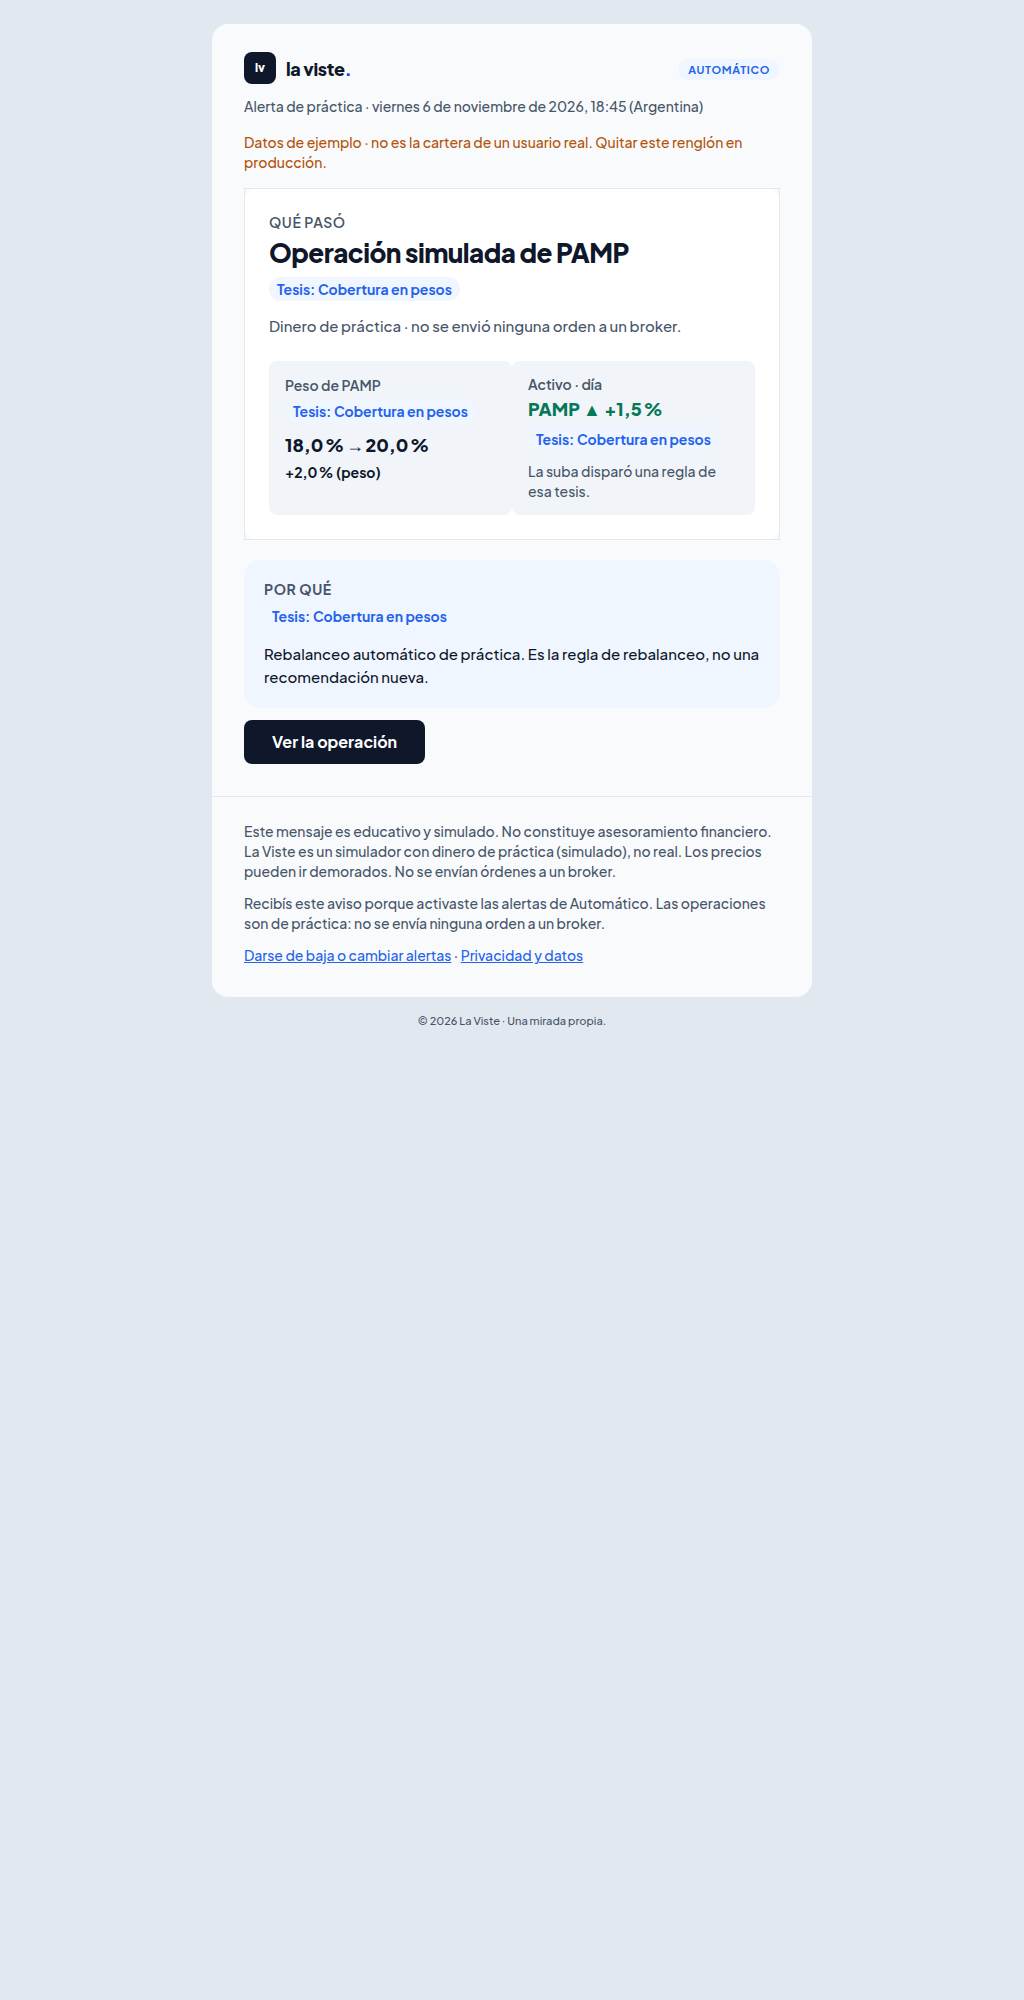
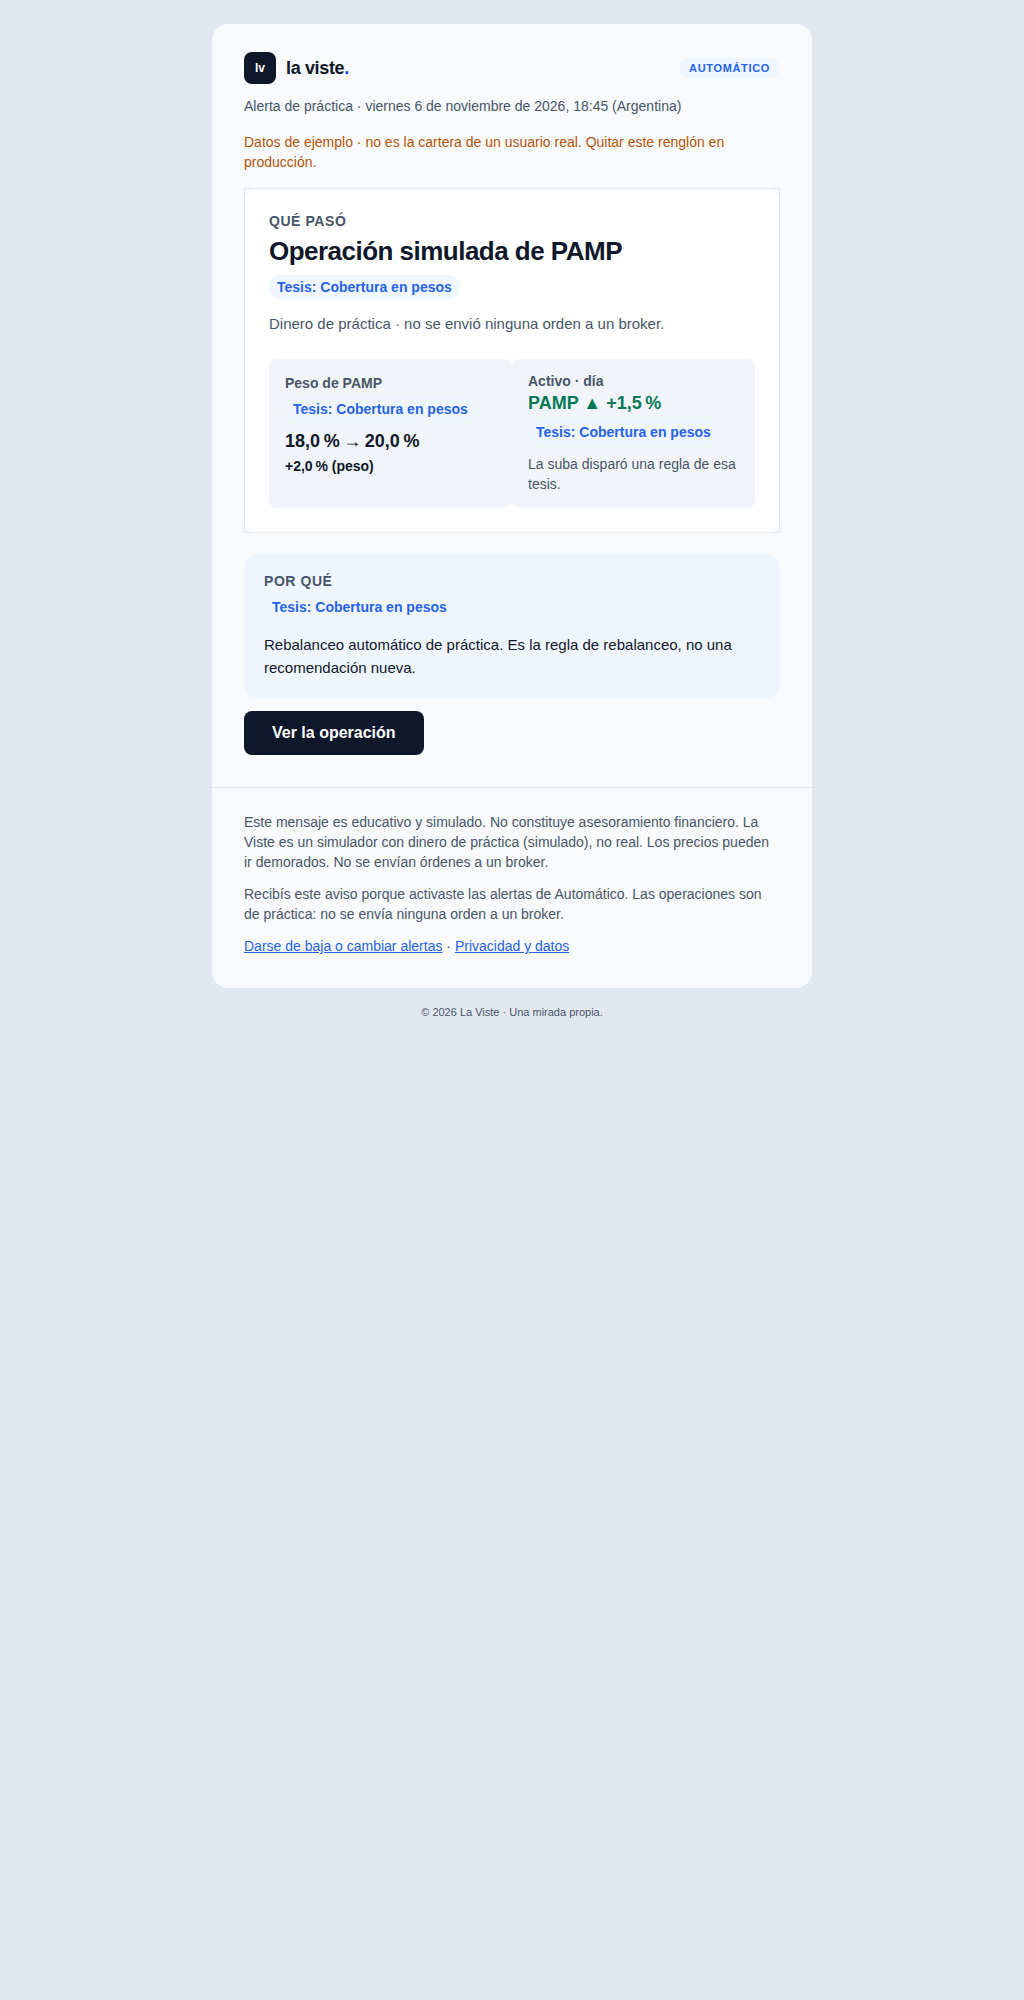
docs: document asset day-change blocker, update review artifacts
- Add docs/ASSET-HISTORY-BLOCKER.md documenting:
  * Existing providers (data912, Yahoo) DO expose day-change fields
  * Current adapters discard pct_change, chartPreviousClose fields
  * quote_cache schema lacks storage columns (migration pending approval)
  * Proposed Option A: capture provider fields with validation
  * Proposed Option B: holdings snapshot in daily marks
  * Implementation checklist: units, zero preservation, stale/session handling

- Regenerate email review artifacts from 7aba3ad (unified baseline):
  * Update MANIFEST.json sourceCommit to 7aba3ad1874577e97086dc4d7a32249834caa9dd
  * Regenerate 2 missing PNG screenshots (trade-unknown-side-desktop, zero-digest-mobile)
  * All 6 fixtures × 4 files (HTML, TXT, desktop PNG, mobile PNG) = 24 files
  * Verified SHA256 hashes in manifest match actual files

- Update scripts/generate-email-fixtures.mjs SOURCE_COMMIT to 7aba3ad

No schema changes, no migration implementation yet (awaiting approval).

Changed region(s): [[0.2188, 0.279, 0.75, 0.527], [0.25, 0.031, 0.7188, 0.248], [0.375, 0.031, 0.75, 0.093]]

diff --git a/docs/ASSET-HISTORY-BLOCKER.md b/docs/ASSET-HISTORY-BLOCKER.md
@@ -1,0 +1,320 @@
+# Asset Day-Change History Blocker
+
+**Date:** 2026-11-07  
+**Status:** Documented blocker for asset-level threshold alerts (Spec §2, §5.1, §6 line 180)
+
+## Approved Requirement
+
+From `SPEC-EMAIL-LAVISTE-CLARITY-2026-11-06_280f.md`:
+
+- **§2 Principios**: "Umbrales: Activo ±5 % · cartera ±3 %" (defaults, respect user prefs)
+- **§5.1**: "Alertas disparadas — ítems que cruzaron ±5 % (activo) o ±3 % (cartera)"
+- **§6 line 180**: `theses[].movers[]` {symbol, `dayPct`, thesisNames[]} — **Gap P0**
+- **§6 line 189**: "también enviar si `|portfolio.dayPct| >= thresholdPortfolioPct`" — **Gap P1**
+- **§6 line 182**: `alertsFired[]` {symbol, `dayPct`, thesisNames[], threshold} — **Gap P0/P1**
+
+## Current System Limitations
+
+### 1. No Individual Asset Price History
+
+**Evidence:**
+
+```sql
+-- quote_cache: ONLY current price (PRIMARY KEY = ticker, single row)
+CREATE TABLE IF NOT EXISTS quote_cache(
+  ticker TEXT PRIMARY KEY, 
+  price REAL NOT NULL, 
+  as_of TEXT NOT NULL, 
+  provider TEXT NOT NULL, 
+  stale INTEGER NOT NULL DEFAULT 0
+);
+
+-- take_daily_marks: Aggregate take value, NOT per-asset prices
+CREATE TABLE IF NOT EXISTS take_daily_marks(
+  take_id TEXT NOT NULL REFERENCES takes(id),
+  user_id TEXT REFERENCES users(id),
+  day TEXT NOT NULL,
+  value REAL NOT NULL,  -- Total take value
+  invested REAL NOT NULL,
+  bench_id TEXT,
+  bench_price REAL,
+  eligible INTEGER NOT NULL,
+  PRIMARY KEY(take_id, day)
+);
+```
+
+**Quotes API** (`lib/quotes.mjs:191-195, 323`):
+- `getCached(ticker)` returns only current price
+- No `getHistoricalPrice()` or `getPreviousClose()` method
+- Adapters only fetch current `regularMarketPrice` (Yahoo) or live price (data912)
+
+### 2. Existing Providers DO Expose Day-Change Fields (Currently Discarded)
+
+**CORRECTED FINDING:** Provider adapters already receive day-change data but discard it.
+
+**Yahoo Finance adapter** (`lib/quotes.mjs:74-92`):
+```javascript
+const data = await fetchJson(`https://query2.finance.yahoo.com/v8/finance/chart/${sym}?interval=1d&range=1d`, fetcher);
+const meta = data?.chart?.result?.[0]?.meta;
+const price = meta?.regularMarketPrice;  // Captured
+// AVAILABLE BUT DISCARDED:
+// meta?.chartPreviousClose or meta?.previousClose
+// meta?.regularMarketChange (absolute)
+// meta?.regularMarketChangePercent (percentage units, not fraction)
+```
+
+**data912 adapter** (`lib/quotes.mjs:46-61`):
+```javascript
+const cedears = await fetchJson('https://data912.com/live/arg_cedears', fetcher);
+const row = cedears.find(r => r.symbol === benchmark.data912);
+// row.c = current price (captured)
+// AVAILABLE BUT DISCARDED:
+// row.pct_change (percentage units: 2.5 means +2.5%, not 0.025)
+```
+
+**Demo adapter**: Static prices only, no day-change data.
+
+**Conclusion:** No new service integration required. Existing provider responses contain day-change fields; adapters simply don't capture them.
+
+### 3. Take Holdings Are Current State Only
+
+Holdings in `take` object (`lib/engine.mjs:39`) store only current `price`:
+```javascript
+holding: {ticker, units, price, entryPrice, referencePrice}
+```
+
+Holdings are NOT persisted per daily mark; only aggregate value/invested captured.
+
+## Consequence
+
+**Cannot compute asset day returns** required for:
+1. `movers[].dayPct` in digest (show which assets moved and by how much)
+2. `alertsFired[]` when asset crosses ±5% threshold
+3. Asset-level threshold gate in `scheduleDailyDigest`
+
+Portfolio day return works (uses aggregate take values in `take_daily_marks`), but individual asset day % is unavailable.
+
+## Proposed Minimal Extension (Design Only)
+
+**NO NEW SERVICE INTEGRATION REQUIRED:** Existing providers expose day-change fields.
+
+### Option A: Capture Provider Day-Change Fields (Preferred)
+
+Extend `quote_cache` to capture day-change fields from providers:
+
+```sql
+ALTER TABLE quote_cache ADD COLUMN day_change_pct REAL;
+ALTER TABLE quote_cache ADD COLUMN prev_close REAL;
+ALTER TABLE quote_cache ADD COLUMN change_as_of TEXT;
+-- day_change_pct: fraction units (0.025 = +2.5%)
+-- prev_close: absolute price from previous session
+-- change_as_of: which session this change represents (verify same day)
+```
+
+**Capture in adapters**:
+
+```javascript
+// data912 adapter
+const row = cedears.find(r => r.symbol === sym);
+if (row?.c && Number.isFinite(row.pct_change)) {
+  // UNITS: row.pct_change is percentage (2.5 means +2.5%)
+  // Convert to fraction: 2.5 → 0.025
+  const dayChangePct = row.pct_change / 100;
+  
+  // Reject invalid: if pct_change <= -100%, data is wrong
+  if (dayChangePct > -1.0) {
+    quote.dayChangePct = dayChangePct;
+    quote.prevClose = row.c / (1 + dayChangePct);  // Compute from current
+  }
+}
+
+// Yahoo adapter
+const meta = data?.chart?.result?.[0]?.meta;
+if (meta?.regularMarketPrice && Number.isFinite(meta.regularMarketChangePercent)) {
+  // UNITS: regularMarketChangePercent is percentage (2.5 means +2.5%)
+  const dayChangePct = meta.regularMarketChangePercent / 100;
+  
+  // Reject invalid
+  if (dayChangePct > -1.0) {
+    quote.dayChangePct = dayChangePct;
+  }
+  // Use chartPreviousClose or previousClose if available
+  if (Number.isFinite(meta.chartPreviousClose)) {
+    quote.prevClose = meta.chartPreviousClose;
+  } else if (Number.isFinite(meta.previousClose)) {
+    quote.prevClose = meta.previousClose;
+  }
+}
+```
+
+**Validation Requirements (Critical)**:
+1. **Units normalization**: Provider percentages → fractions at adapter boundary
+2. **Preserve zero**: `dayChangePct === 0` is meaningful (flat day), do NOT drop with `if (q?.dayChangePct)`
+3. **Reject invalid data**: `dayChangePct <= -1.0` (≤-100%) is wrong, omit
+4. **Session verification**: Ensure `change_as_of` matches expected ART session (don't use Friday's change on Monday)
+5. **Stale handling**: If quote is stale, day-change may be from wrong session → omit
+6. **Scope by user**: Asset day % only for tickers in user's takes
+7. **All thesis names**: When reporting asset movement, include ALL theses containing that ticker
+
+**Usage in digest**:
+```javascript
+// Get current quote with day-change
+const q = quotes.getCached(ticker);
+
+// CORRECT: preserve meaningful zero
+if (q && Number.isFinite(q.dayChangePct)) {
+  const assetDayPct = q.dayChangePct;  // Already fraction
+  // Check threshold
+  if (Math.abs(assetDayPct) >= prefs.thresholdAssetPct / 100) {
+    // Asset crossed threshold
+  }
+}
+
+// INCORRECT: drops zero
+if (q?.dayChangePct) {  // WRONG: excludes 0
+  // ...
+}
+```
+
+**Pros:**
+- No new service integration (providers already expose this)
+- Smaller storage footprint than holdings JSON
+- Available immediately after refresh (no multi-day accumulation)
+- Can backfill if provider response includes previous close
+
+**Cons:**
+- Provider-dependent (may not have for all tickers, especially benchmarks)
+- Mixed sessions/timezones (Yahoo regular market vs BYMA close)
+- Stale handling complexity (day-change from wrong session must be rejected)
+- Cannot compute asset day % for arbitrary baseline (only yesterday)
+
+### Option B: Holdings Snapshot in Daily Marks
+
+Extend `take_daily_marks` to capture full holdings state:
+
+```sql
+ALTER TABLE take_daily_marks ADD COLUMN holdings_json TEXT;
+-- JSON array: [{ticker, units, price}] at mark time
+```
+
+**Capture during daily marks** (`lib/daily-marks.mjs:82-90`):
+```javascript
+scoped.upsertDailyMark({
+  takeId: take.id,
+  day,
+  value: val,
+  invested: take.invested,
+  holdingsJson: JSON.stringify(
+    take.holdings.map(h => ({ticker: h.ticker, units: h.units, price: h.price}))
+  ),
+  benchId: take.benchmarkId || null,
+  benchPrice: Number.isFinite(bench?.price) ? bench.price : null,
+  eligible: markEligible(take, val),
+});
+```
+
+**Compute asset day return**:
+```javascript
+// Get baseline and today holdings from marks
+const priorMark = loadMark(takeId, baselineDay);
+const todayMark = loadMark(takeId, today);
+const priorHoldings = JSON.parse(priorMark.holdings_json || '[]');
+const todayHoldings = JSON.parse(todayMark.holdings_json || '[]');
+
+// Asset day %: (todayPrice - priorPrice) / priorPrice
+const priorH = priorHoldings.find(h => h.ticker === ticker);
+const todayH = todayHoldings.find(h => h.ticker === ticker);
+if (priorH && todayH && priorH.price > 0) {
+  const assetDayPct = (todayH.price - priorH.price) / priorH.price;
+  // Preserve zero, reject invalid
+  if (assetDayPct > -1.0) {
+    // Valid day return
+  }
+}
+```
+
+**Pros:**
+- Respects unified baseline exactly (same ART day for all assets)
+- Captures actual prices at mark session (~17:30 ART)
+- No provider dependency (works even if provider day-change unavailable)
+- Extensible (can compute arbitrary baseline day returns)
+- No timezone/session mismatch
+
+**Cons:**
+- Increases row size (holdings JSON ~several KB per take)
+- Backfill impossible (historical holdings not preserved)
+- Requires multi-day accumulation (can't use on first day)
+
+## Rollout and Limitations
+
+### Capture Date/Session/Timezone
+- **ART session baseline**: Marks written after 17:30 ART on weekdays (`DAILY_MARKS_HOUR`, `DAILY_MARKS_MINUTE`)
+- **Calendar day**: `dayInBuenosAires(now)` determines which ART day the mark belongs to
+- Holdings snapshot captures prices as of take refresh (quotes `asOf` can lag market close)
+
+### Stale Handling
+- If mark day has `eligible=0`, asset day % should be unavailable (not computed from ineligible data)
+- If baseline day mark missing or ineligible, all asset day % unavailable for that comparison
+
+### Rollout
+- Migration adds column (Option A: `holdings_json`; Option B: `prev_close`)
+- Forward-only: no backfill possible (historical holdings not preserved)
+- First digest after migration: may have no valid baseline (need 1-5 days to accumulate)
+
+### Retention
+- `take_daily_marks` has no explicit retention policy currently
+- Holdings JSON increases storage; consider retention (e.g., keep 90 days for digests, older for aggregate stats only)
+
+### Tests
+- Seeded marks with known holdings at baseline and today
+- Compute asset day % and verify against expected
+- Missing baseline day => asset day % unavailable
+- Asset added/removed between baseline and today => handle gracefully (omit if not in both)
+- Zero units => omit (no longer held)
+- Zero price change => 0.0%, neutral rendering
+
+## Recommendation
+
+**Option A (Provider Day-Change)** for immediate implementation:
+1. Providers already expose day-change fields (no new integration)
+2. Smaller storage footprint (3 columns vs large JSON)
+3. Available immediately after refresh
+4. Sufficient for yesterday-vs-today digest use case
+
+**Limitations of Option A:**
+- Cannot compute arbitrary baseline day returns (only yesterday)
+- Unified baseline requires all assets from same session
+- Provider-dependent (may not cover all tickers)
+
+**Option B (Holdings Snapshot)** for future consideration if:
+- Multi-day baseline window needed (2-5 days back)
+- Provider day-change unreliable or unavailable
+- Need arbitrary historical comparisons
+
+## Implementation Validation Checklist
+
+When implementing Option A (Provider Day-Change):
+
+1. **Units**: Normalize percentage → fraction at adapter boundary
+2. **Zero preservation**: `dayChangePct === 0` is valid, do NOT drop
+3. **Invalid data**: Reject `dayChangePct <= -1.0` (≤-100%)
+4. **Session verification**: Verify `as_of` matches expected session
+5. **Stale handling**: Omit day-change if quote is stale
+6. **User scoping**: Only compute for tickers in user's takes
+7. **Thesis names**: Include ALL theses containing the ticker
+8. **Threshold gate**: Both asset AND portfolio thresholds trigger digest
+9. **Tests**: Seeded quote_cache with known day-change → verify movements, alertsFired, threshold gates
+
+## Next Steps
+
+1. **Diego approval**: Waiting on quote_cache schema extension approval
+2. **Do NOT implement migration yet** until approved
+3. **When approved**:
+   - Write migration `applyVNN` to add columns to `quote_cache`
+   - Update adapters to capture day-change fields with validation
+   - Update `quote_cache` put/get to handle new columns
+   - Implement asset movements in `email-enrichment.mjs`
+   - Wire asset threshold in `scheduleDailyDigest`
+   - Add producer->outbox tests with seeded quotes
+
+**Current status:** Design documented, awaiting approval. No implementation yet.
